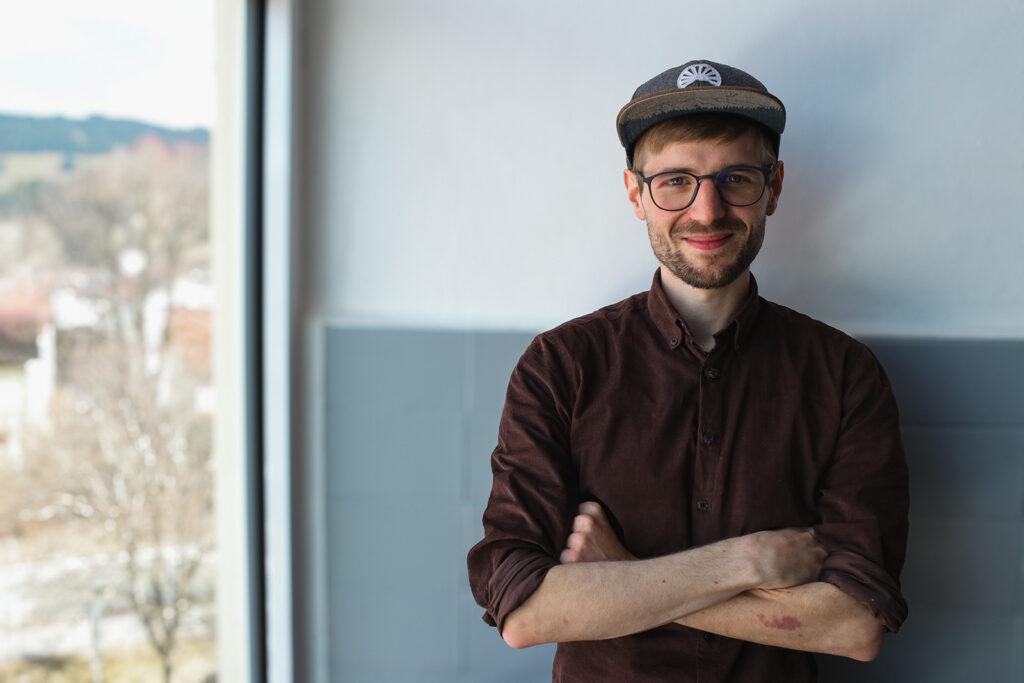
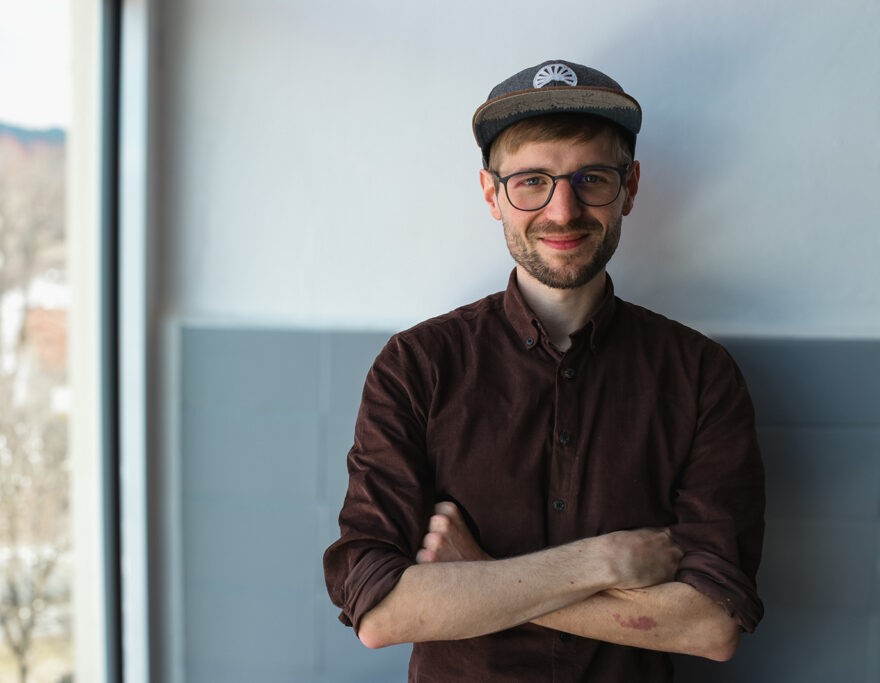
H1 und Texte angepasst

diff --git a/src/i18n/de.ts b/src/i18n/de.ts
@@ -17,7 +17,7 @@ const de = {
     contact: 'Kontakt'
   },
   footer: {
-    brandText: 'kalikoer ist ein junger Chor im Allgäu (Raum Kempten, Immenstadt und Sonthofen). Die Probe findet dienstags in Immenstadt statt.',
+    brandText: 'kalikoer ist ein junger Chor im Allgäu im Raum Kempten, Immenstadt und Sonthofen. Die Probe findet dienstags in Immenstadt statt.',
     navigation: 'Navigation',
     contact: 'Kontakt',
     home: 'Home',
@@ -47,19 +47,19 @@ const de = {
     },
     impressum: {
       title: 'Impressum – kalikoer',
-      description: 'Impressum von kalikoer, Chor in Immenstadt im Allgäu.'
+      description: 'Impressum von kalikoer, dem jungen Chor im Allgäu.'
     },
     datenschutz: {
       title: 'Datenschutz – kalikoer',
-      description: 'Datenschutzerklärung von kalikoer, Chor in Immenstadt im Allgäu.'
+      description: 'Datenschutzerklärung von kalikoer, ein moderner Chor aus Immenstadt im Allgäu.'
     }
   },
   index: {
     hero: {
-      tag: 'Chor im Allgäu',
-      title: 'Kalikoer',
-      p1: 'Mit Leidenschaft und Freude am gemeinsamen Singen vereint kalikoer junge Stimmen aus dem Allgäu zu einem einzigartigen Klangerlebnis. Unser Chor, bestehend aus engagierten Sängerinnen und Sängern mit einem Altersdurchschnitt von etwa 35 Jahren verbindet moderne Chormusik mit geselligem Miteinander.',
-      p2: 'Gefühlvolle Balladen, schwungvolle Pop-Hits oder traditionelle Stücke – bei uns trifft musikalische Vielfalt auf pure Begeisterung.',
+      tag: 'kalikoer',
+      title: 'Chor im Allgäu',
+      p1: 'Kalikoer ist ein moderner, junger Chor in Immenstadt im Allgäu. Mit Leidenschaft und echter Freude am gemeinsamen Singen bringen wir junge Stimmen aus dem Allgäu, Kempten und Sonthofen zusammen und schaffen so ein einzigartiges Klangerlebnis.',
+      p2: 'Ob gefühlvolle Balladen, schwungvolle Pop-Hits oder klassische Stücke – unser Chor steht für musikalische Vielfalt und pure Begeisterung. Unsere engagierten Sängerinnen und Sänger, mit einem Altersdurchschnitt von ca. 35 Jahren, teilen neben der Liebe zur Musik auch den Spaß an Gemeinschaft und gemeinsamen Auftritten.',
       supportText: 'Wenn dir unsere Musik gefällt, unterstütze uns und',
       supportLink: 'Buy me a coffee',
       supportAria: 'kalikoer auf Buy me a coffee unterstützen',
@@ -68,15 +68,15 @@ const de = {
       imageAlt: 'kalikoer, ein junger Chor aus Immenstadt im Allgäu beim Chorfest 2026 in Immenstadt.'
     },
     conductor: {
-      tag: 'Das sind wir',
-      title: 'Hallo!',
-      p1: 'Ich bin Johannes, der Chorleiter von kalikoer. Musik begleitet mich schon seit vielen Jahren. Ich spiele mehrere Instrumente, aktiv vor allem Klavier und Orgel, und singe selbst in verschiedenen Chören und Ensembles. Ich bin kein Profi, aber durch die vielen Jahre Praxis bringe ich jede Menge Erfahrung und vor allem viel Herzblut mit 😊',
-      p2: 'Bei kalikoer steht für mich vor allem die Freude am gemeinsamen Singen im Mittelpunkt. Und genau die verbindet uns. Bei uns treffen Lehrer auf Architekten, Physiotherapeutinnen auf Software-Entwickler, Marketingprofis auf Hüttenwirte – ein herrlich bunter Mix an Menschen. Was uns zusammenschweißt? Die Begeisterung für Musik. Deshalb freue ich mich über alle Sänger bzw. Sängerinnen, die unsere Leidenschaft zur Musik teilen.',
+      tag: 'Hallo!',
+      title: 'Das sind wir.',
+      p1: 'Ich bin Johannes, der Chorleiter von kalikoer. Ich bin kein Profi – aber genau das macht’s vielleicht sympathisch 😉. Was ich mitbringe, ist jede Menge Erfahrung, Leidenschaft für Chormusik und vor allem richtig viel Herzblut für das gemeinsame Singen.',
+      p2: 'Bei kalikoer steht genau das im Mittelpunkt: die Freude am Miteinandersingen. Und genau die verbindet uns. Bei uns treffen Lehrer auf Architekten, Physiotherapeutinnen auf Software-Entwickler, Marketingprofis auf Hüttenwirte – ein herrlich bunter Mix an Menschen. Was uns zusammenschweißt? Die Begeisterung für Musik. Deshalb freue ich mich über alle Sänger bzw. Sängerinnen, die unsere Leidenschaft zur Musik teilen.',
       imageAlt: 'Johannes Golda, Chorleiter von kalikoer, einem jungen Chor aus Immenstadt im Allgäu.'
     },
     rehearsal: {
-      tag: 'Mitsingen',
-      title: 'Probe.',
+      tag: 'Probe',
+      title: 'Chor zum Mitsingen.',
       intro1: 'Unsere Chorprobe ist mehr als nur Üben. Geprägt von positiver Energie, Freude und Gemeinschaft ist sie unser wöchentlicher Energie-Booster. Mit Spaß arbeiten wir an diversen Stücken und bereiten uns auf zwei bis drei Konzerte im Jahr vor.',
       imageAlt: 'Kalikoer beim Probentag im März 2026',
       cardTitle: 'Unsere Chorprobe',
@@ -126,7 +126,6 @@ const de = {
     contact: {
       tag: 'Kontakt',
       title: 'Anfragen? Anregungen? Lust, mitzumachen?',
-      highlight: "Meld' dich bei uns.",
       text: 'Du suchst einen Chor für deinen Geburtstag, deine Hochzeit oder deine Scheidung? Oder hast du Lust, mitzusingen? Dann melde dich gerne. Zurzeit suchen wir vor allem Männerstimmen. Wenn du Freude am Singen hast und Gesangserfahrung hast, beispielsweise im Schulchor, anderen Ensembles o.ä., dann bist du bei uns genau richtig!',
       form: {
         name: 'Name *',